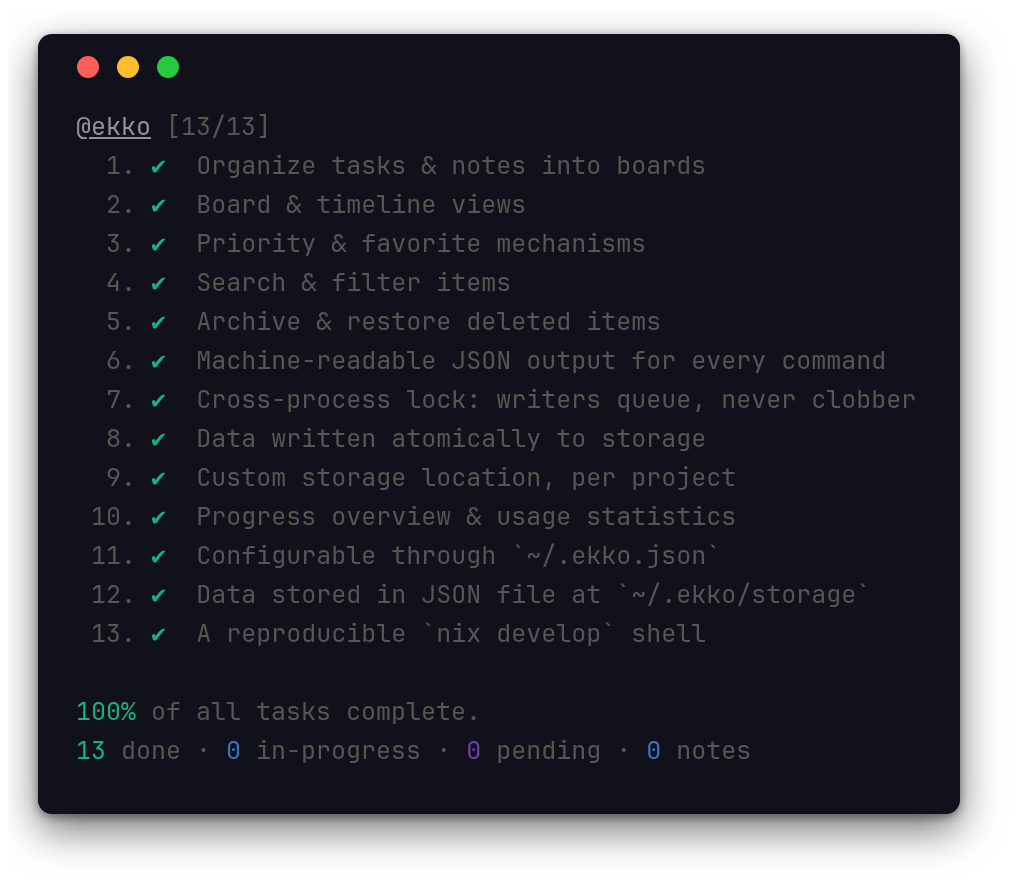
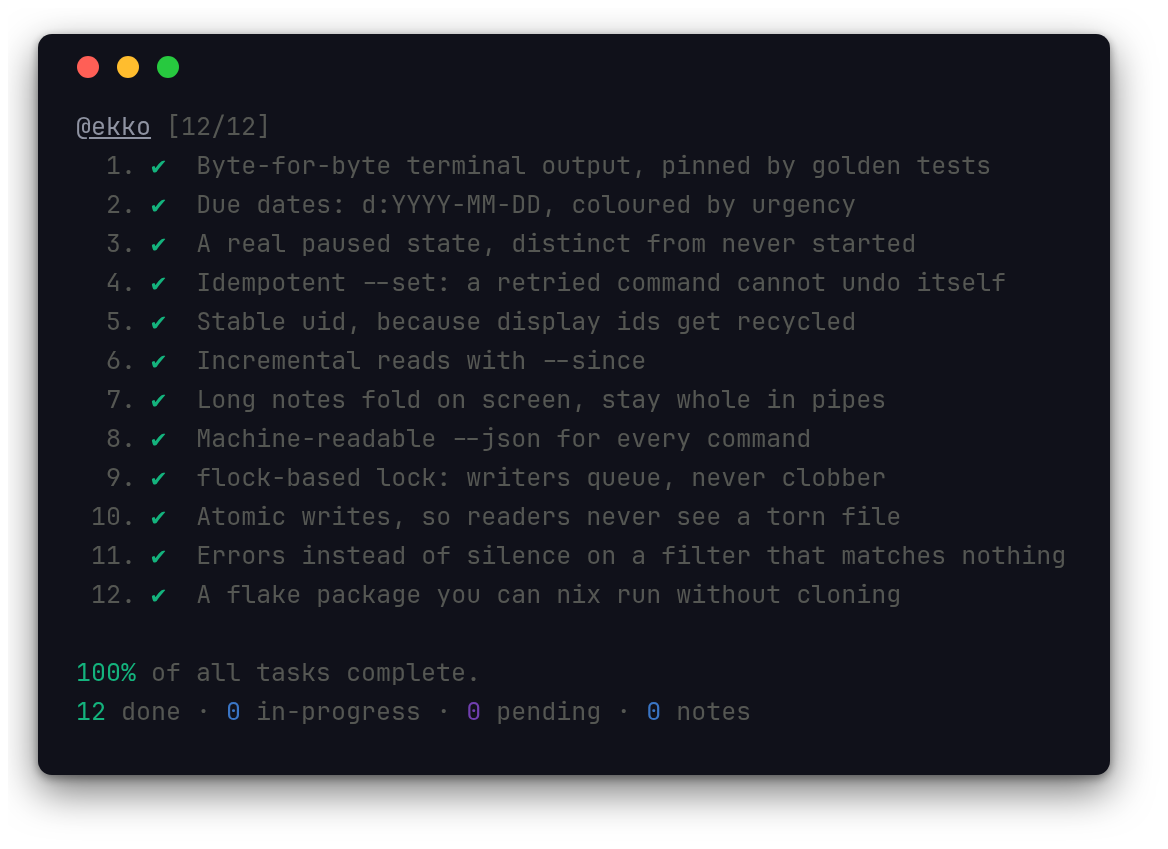
docs: bring the readme and the screenshots up to what Ekko now is
The top of the file still described the faithful port and nothing else,
while the features added since were appended to the highlights list in
whatever order they landed. It read as a pile rather than a claim.

The description now says both things: the output is still byte-for-byte
identical for anything taskbook could produce, and Ekko has since grown
past the original where the original was in the way. The highlights split
along the same line -- inherited, then added -- so the second list is the
answer to "why this rather than taskbook".

Install was stale in a way that mattered: it claimed Ekko was published
nowhere, which stopped being true when the flake gained a package. `nix run
github:thiagoproldan/ekko` needs no clone at all.

Screenshots recaptured from the real binary, now showing the states and
dates that did not exist when the last set was taken: a paused item, an
overdue date in red, one due today in yellow, one still ahead in grey, and
the paused count in the stats line.

Two things about the pause glyph, found while capturing. No font in the
usual set carries U+23F8 -- it comes from Noto Sans Symbols 2 -- and its
advance is narrower than the mono faces, so the picture needs a nudge to
match what a terminal actually renders. The text itself is aligned;
verified by measuring the column every description starts at.

Changed region(s): [[0.0305, 0.0306, 0.9745, 0.9187], [0.7917, 0.3062, 0.8527, 0.3369]]

diff --git a/readme.md b/readme.md
@@ -12,29 +12,35 @@
 
 ## Description
 
-Ekko is a pure-Rust rewrite of [taskbook](https://github.com/klaudiosinani/taskbook), keeping its terminal look and simple, minimal usage syntax byte-for-byte and rebuilding everything underneath: machine-readable `--json` output, a real cross-process lock so two invocations writing at once can't silently clobber each other, and a `node:test`\-era test suite carried over as `cargo test`. Local and private by design -- data never leaves your machine, and now nothing about running it depends on Node being installed either.
+Ekko is a pure-Rust rewrite of [taskbook](https://github.com/klaudiosinani/taskbook). It began as a faithful port -- the terminal output is still byte-for-byte identical for anything taskbook could produce, pinned by golden tests that diff against output captured from the real JavaScript build -- and everything underneath was rebuilt: machine-readable `--json` for every command, a `flock`-based cross-process lock so two invocations writing at once cannot silently clobber each other, and the JS test suite carried over and grown.
+
+It has since grown past the original where the original was in the way. Due dates, a real paused state, retry-safe state changes, stable per-item ids and incremental reads are all Ekko's, and none of them disturb a board that does not use them. Where taskbook silently returned a plausible wrong answer, Ekko errors instead.
 
 Effectively a task manager built to be driven by a human and an LLM/coding agent working the same boards at the same time, which is exactly the property the rewrite exists to make solid.
 
 ## Highlights
 
+Inherited from taskbook, and rendered identically:
+
 - Organize tasks & notes into boards
 - Board & timeline views
 - Priority & favorite mechanisms
-- Due dates via `d:YYYY-MM-DD`, coloured by urgency and filterable -- an Ekko addition
-- A real paused state, so "set aside" stops looking like "never started"
-- Long notes fold to one line on screen, and stay whole in pipes and `--json`
-- Retry-safe state changes (`--set`), stable per-item `uid`s, and incremental reads (`--since`) -- built for scripts and agents
 - Search & filter items
 - Archive & restore deleted items
-- Machine-readable `--json` output for every command, scripts and agents included
-- Cross-process file lock: concurrent writers queue instead of losing each other's updates
-- Data written atomically to storage (temp file + rename)
-- Custom storage location, per-project or per-context
 - Progress overview
-- Configurable through `~/.ekko.json`
-- Data stored in plain JSON at `~/.ekko/storage`
-- A reproducible `nix develop` shell for the whole toolchain
+- Configurable through `~/.ekko.json`, data in plain JSON at `~/.ekko/storage`
+
+Added by Ekko, each of them invisible until you use it:
+
+- **Due dates** via `d:YYYY-MM-DD`, coloured by urgency and filterable with `--list due|overdue`
+- **A real paused state**, so "set aside" stops looking like "never started"
+- **`--set`**, an idempotent alternative to the toggles: a retried command cannot undo itself
+- **Stable `uid`s**, because display ids get recycled and `--restore` hands out new ones
+- **`--since`**, reading only what changed rather than the whole board every time
+- **Folded notes** on screen, whole in pipes and `--json`
+- **Errors instead of silence** when a filter term matches nothing
+- **A `flock` lock and atomic writes**, so concurrent invocations queue rather than lose updates
+- **A reproducible `nix develop` shell**, and a flake package you can `nix run` without cloning
 
 <div align="center">
   <img alt="Highlights" width="66%" src="media/highlights.png"/>
@@ -55,15 +61,25 @@ Effectively a task manager built to be driven by a human and an LLM/coding agent
 
 ## Install
 
-Not published anywhere -- build it from this repository.
+With nix, nothing needs cloning:
 
 ```bash
-$ git clone <this repo> && cd ekko
+$ nix run github:thiagoproldan/ekko -- --help
+$ nix profile install github:thiagoproldan/ekko
+```
+
+The flake also exposes the `/ekko` Claude Code skill as `packages.skill`, so a home-manager config can install the tool and the skill it documents together, pinned to the same revision -- see [`skill/readme.md`](skill/readme.md).
+
+With cargo, from a clone:
+
+```bash
 $ nix develop           # Rust toolchain: cargo, rustc, clippy, rustfmt
 $ cargo install --path . --locked
 ```
 
-That installs the `ekko` binary to `~/.cargo/bin` (make sure it's on your `PATH`). To just build it without installing: `cargo build --release`, binary lands at `target/release/ekko`.
+That lands the binary in `~/.cargo/bin`, which your shell may not read. To build without installing: `cargo build --release`, and the binary appears at `target/release/ekko`.
+
+Ekko is Linux-only: the storage lock reads `/proc/<pid>/stat` to tell a dead lock holder from a live one, with no fallback for other platforms.
 
 ## Usage
 
